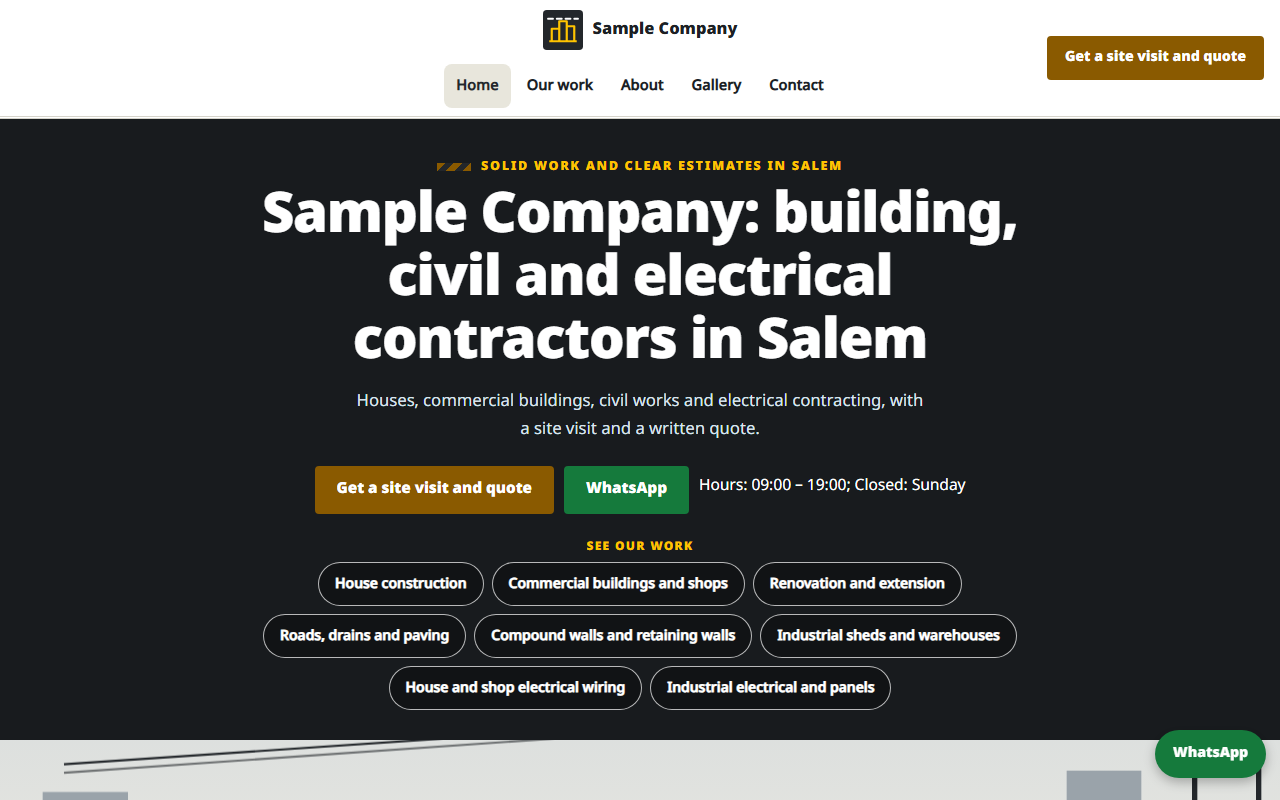
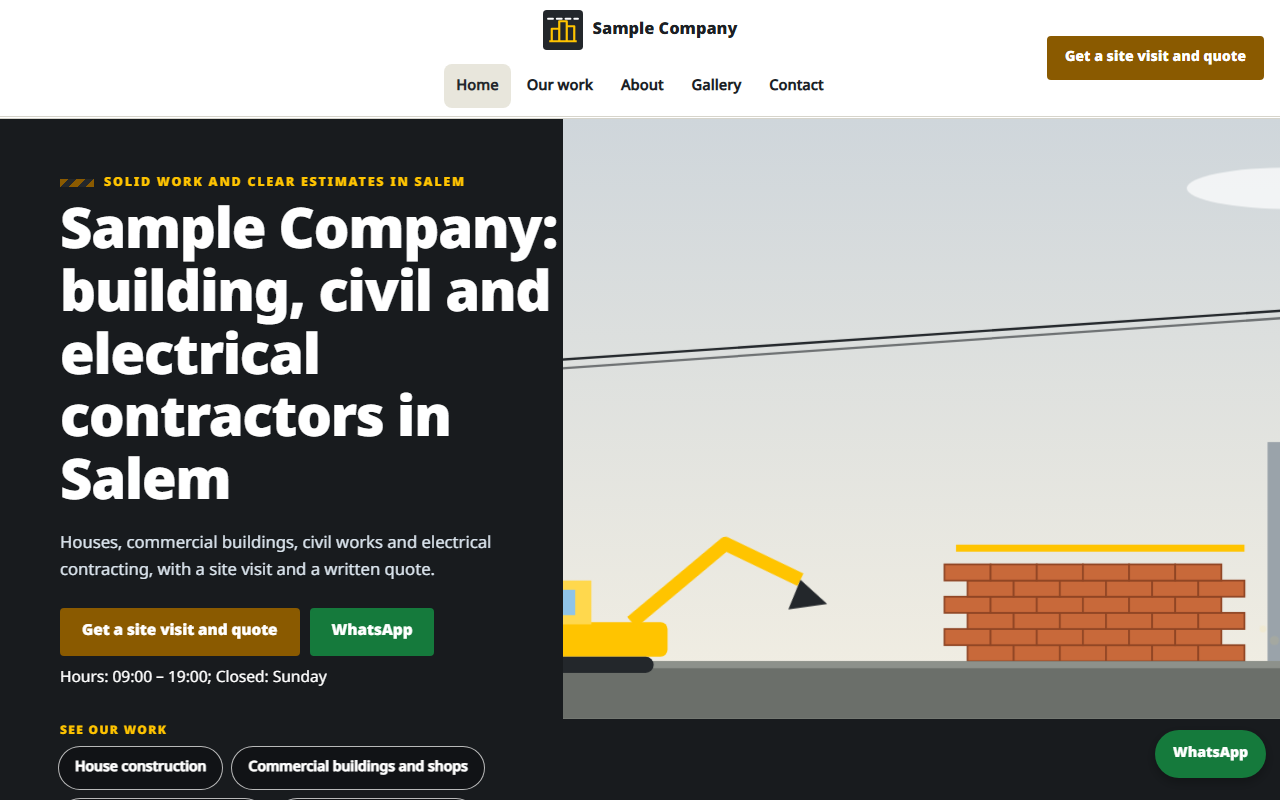
fix(themes): pack 3 split hero keeps the animated scene on the first screen; README rule and ledger times

diff --git a/packs/construction-building/contractor-portfolio/css/base.css b/packs/construction-building/contractor-portfolio/css/base.css
@@ -99,13 +99,15 @@
 .g4d-theme .svc-links li{flex:0 0 auto;scroll-snap-align:start;max-width:78vw}
 .g4d-theme .svc-links a{display:inline-flex;align-items:center;min-height:44px;padding:6px 16px;border-radius:999px;border:1.5px solid rgba(255,255,255,.7);color:#fff;text-decoration:none;font-weight:600;font-size:.88rem;background:rgba(0,0,0,.28)}
 @media(min-width:900px){.g4d-theme .svc-links{flex-wrap:wrap;overflow:visible}}
-.g4d-theme .hero--center{text-align:center}
-.g4d-theme .hero--center .hero-art{position:relative;height:clamp(200px,46vw,340px);order:2}
-.g4d-theme .hero--center{display:flex;flex-direction:column}
-.g4d-theme .hero--center .hero-grid{order:1;padding-block:40px 24px}
-.g4d-theme .hero--center .hero-copy{margin-inline:auto;max-width:760px}
-.g4d-theme .hero--center .hero-cta,.g4d-theme .hero--center .svc-links{justify-content:center}
-.g4d-theme .hero--center .lede{margin-inline:auto}
+.g4d-theme .hero--split .hero-art{position:relative;height:clamp(210px,54vw,300px)}
+.g4d-theme .hero--split .hero-grid{padding-block:28px 40px}
+@media(min-width:900px){
+  .g4d-theme .hero--split{min-height:560px;display:flex;align-items:center}
+  .g4d-theme .hero--split .hero-art{position:absolute;inset:0 0 0 44%;height:auto}
+  .g4d-theme .hero--split .hero-grid{padding-block:56px;position:relative}
+  .g4d-theme .hero--split .hero-copy{max-width:min(540px,52%)}
+  .g4d-theme .hero--split .hero-shade{background:linear-gradient(90deg,var(--tp-deep) 0,rgba(0,0,0,0) 38%)}
+}
 
 .g4d-theme .section{padding:56px 0}
 .g4d-theme .section--white{background:var(--g4d-surface)}
@@ -204,3 +206,4 @@
 .g4d-theme .tile:nth-child(3) .tile-ic{background-image:url(../assets/motif-electrical.svg)}
 .g4d-theme .hero-eyebrow::before{content:"";display:inline-block;width:34px;height:8px;margin-right:10px;vertical-align:middle;background:repeating-linear-gradient(-45deg,var(--g4d-accent) 0 6px,var(--tp-ink) 6px 12px)}
 .g4d-theme .section--tint{background-color:var(--tp-tint)}
+@media(min-width:900px){.g4d-theme .hero--split .hero-art{bottom:auto;height:min(100%,600px)}.g4d-theme .hero--split .hero-copy{max-width:min(520px,50%)}}

diff --git a/packs/construction-building/contractor-portfolio/templates/home.html b/packs/construction-building/contractor-portfolio/templates/home.html
@@ -12,7 +12,7 @@
   </div>
 </header>
 <main id="main">
-<section class="hero hero--center" data-g4d-section="hero" data-g4d-label="Hero banner" data-g4d-optional="false">
+<section class="hero hero--split" data-g4d-section="hero" data-g4d-label="Hero banner" data-g4d-optional="false">
   <div class="hero-art" aria-hidden="false">
     <img class="hero-photo" data-g4d-if="hero.image" src="{{hero.image}}" alt="{{hero.imageAlt}}" width="1600" height="800" fetchpriority="high">
     <div class="hero-shade" data-g4d-if="hero.image" aria-hidden="true"></div>

diff --git a/docs/v3/THEME_FACTORY_LEDGER.md b/docs/v3/THEME_FACTORY_LEDGER.md
@@ -1,9 +1,9 @@
 # Theme Factory ledger
 
-One row per pack, appended when the pack is finished (or BLOCKED). Status: DONE or BLOCKED. Lint: the result of `lint` with no waivers. Commit: the short hash of the pack commit.
+One row per pack (started = wall-clock start of the pack, date and HH:MM; pushed = clock time of the push, HH:MM, same date unless it says otherwise; n/a = not recorded before this rule), appended when the pack is finished (or BLOCKED). Status: DONE or BLOCKED. Lint: the result of `lint` with no waivers. Commit: the short hash of the pack commit.
 
-| pack | type | status | lint | commit | date | notes |
-|---|---|---|---|---|---|---|
-| blueprint-builders | builder-developer (real-estate-property) | DONE | pass, 41 rules incl. browser 360-1536, no waivers | 3c8d28f1 | 2026-11-25 | validate-package ok; install: platform; bottom nav: platform, 3 items; 7 generic projects, no real facts |
-| doorstep-property-agents | property-agent (real-estate-property) | DONE | pass, 41 rules incl. browser 360-1536, no waivers | cc983061 | 2026-11-25 | validate-package ok; install: platform; bottom nav: platform, 3 items; 7 generic listings, no real facts; pack 1 contact/about split fixed to 720px |
-| foundation-contractors | contractor-portfolio (construction-building) | DONE | pass, 41 rules incl. browser 360-1536, no waivers | c1d6a524 | 2026-11-25 | validate-package ok; install: platform; bottom nav: platform, 3 items; 8 generic jobs in building, civil and electrical, no real facts; centred hero shows the scene below the copy |
+| pack | type | status | lint | commit | date | notes | started | pushed |
+|---|---|---|---|---|---|---|---|---|
+| blueprint-builders | builder-developer (real-estate-property) | DONE | pass, 41 rules incl. browser 360-1536, no waivers | 3c8d28f1 | 2026-11-25 | validate-package ok; install: platform; bottom nav: platform, 3 items; 7 generic projects, no real facts | n/a | n/a |
+| doorstep-property-agents | property-agent (real-estate-property) | DONE | pass, 41 rules incl. browser 360-1536, no waivers | cc983061 | 2026-11-25 | validate-package ok; install: platform; bottom nav: platform, 3 items; 7 generic listings, no real facts; pack 1 contact/about split fixed to 720px | n/a | n/a |
+| foundation-contractors | contractor-portfolio (construction-building) | DONE | pass, 41 rules incl. browser 360-1536, no waivers | c1d6a524 | 2026-11-25 | validate-package ok; install: platform; bottom nav: platform, 3 items; 8 generic jobs in building, civil and electrical, no real facts; centred hero shows the scene below the copy | n/a | n/a |

diff --git a/docs/v3/THEME_FACTORY_README.md b/docs/v3/THEME_FACTORY_README.md
@@ -31,6 +31,10 @@ Design rules:
 | Google Map slot | `<g4d-map>` is a platform slot, required in every theme | Placed on home, about and contact, with a CSS rule that reserves its size. |
 | presets | optional, but a theme with any preset needs one for every category it lists | Packs ship no presets (the pack itself is the preset). |
 
+## Added rules
+- The animated hero scene must be visible on the first screen at 360 and at 1280 for every pack (the first-screen preview images `assets/previews/home-360.png` and `home-1280.png` must show the moving subject, not only sky or empty space). Use a split or overlapping hero; a centred hero that pushes the scene below the headline is not allowed. If the headline is long, cap the scene height so the subject sits inside 800px at 1280.
+- The ledger records, for each pack, the wall-clock start (date and HH:MM) and the push time (HH:MM).
+
 ## Pack folder
 ```
 packs/<family-id>/<type-id>/
